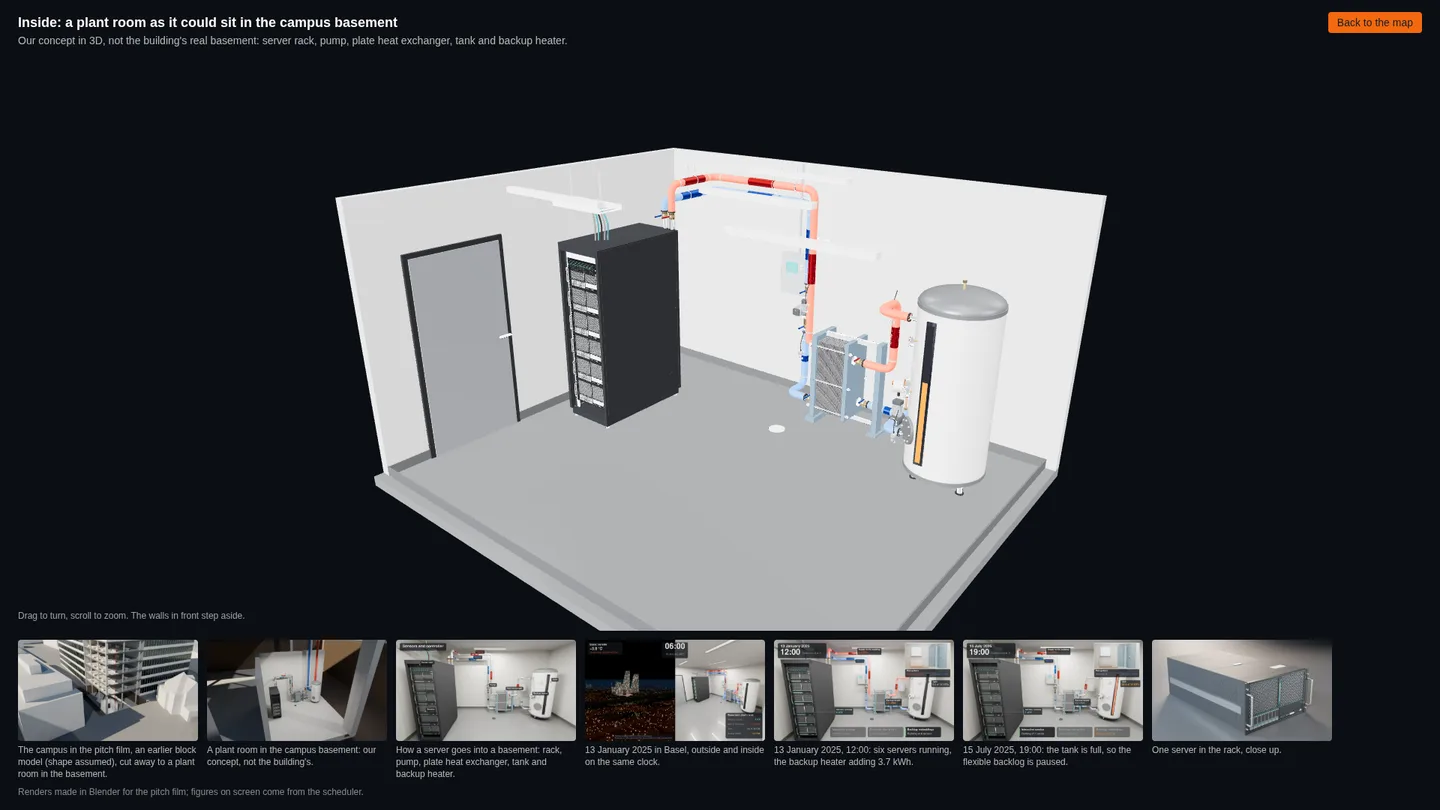
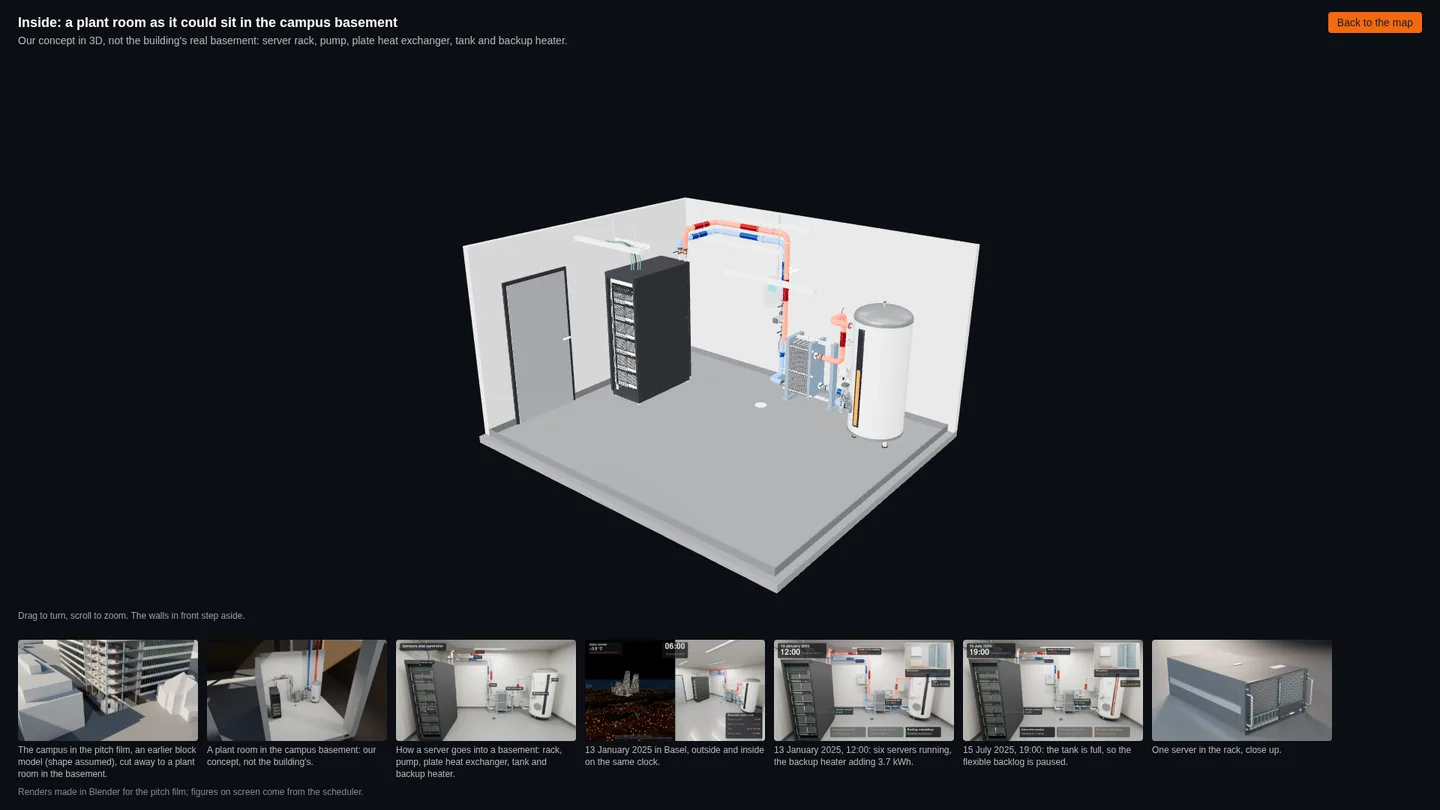
Frame the whole plant room above the stills strip at 1080p

Changed region(s): [[0.2188, 0.1852, 0.7812, 0.8025]]

diff --git a/apps/map/src/inside/PlantRoom.tsx b/apps/map/src/inside/PlantRoom.tsx
@@ -69,10 +69,12 @@ function stageRoom(room: Object3D, camera: Camera, gl: WebGLRenderer, scene: Sce
   const env = pmrem.fromScene(new RoomEnvironment(), 0.04).texture;
   scene.environment = env;
   scene.background = new Color(BACKGROUND);
-  camera.position.copy(centre).add(new Vector3(0.9, 0.55, 1.1).multiplyScalar(radius * 1.3));
-  camera.lookAt(centre);
+  // Far enough back that the floor's near corner stays above the stills strip at 1080p.
+  const aim = centre.clone();
+  camera.position.copy(aim).add(new Vector3(0.9, 0.55, 1.1).multiplyScalar(radius * 1.9));
+  camera.lookAt(aim);
   const controls = new OrbitControls(camera, gl.domElement);
-  controls.target.copy(centre);
+  controls.target.copy(aim);
   controls.enableDamping = true;
   controls.minDistance = radius * 0.4;
   controls.maxDistance = radius * 3;
